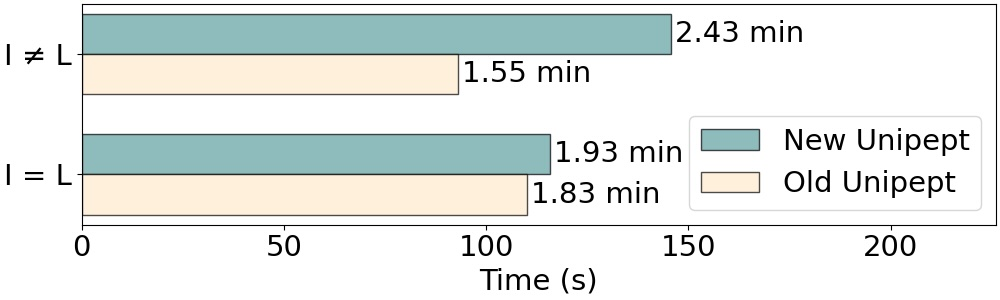
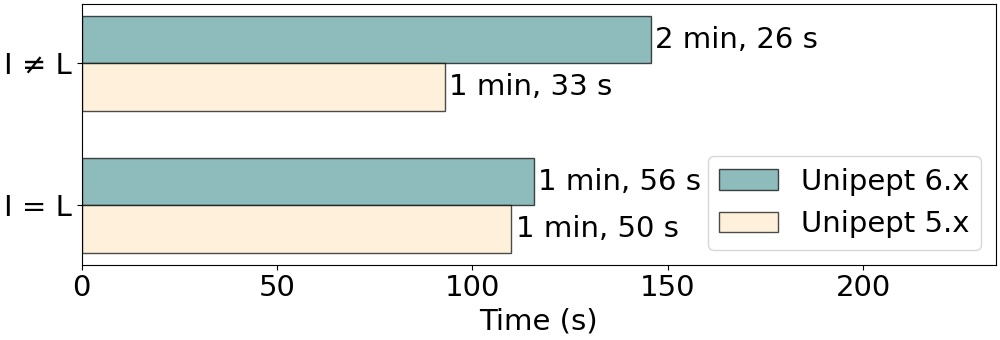
update figures to use min, sec and use unipept 5.x and 6.x in abstract

Changed region(s): [[0.0, 0.42, 1.0, 0.99], [0.0, 0.0, 1.0, 0.36], [0.713, 0.36, 0.961, 0.39]]

diff --git a/abstract/abstract.tex b/abstract/abstract.tex
@@ -90,17 +90,19 @@
         Similar to peptides with missed cleavages, these will not be present in the index, but no workaround exists in this case.
 
         This restriction has not been a significant problem since Unipept was originally created for the metaproteomics field, where trypsin is widely used.
-        However, other fields, such as the immunopeptidomics field, frequently work with non-tryptic peptides.
-        We aspire to broaden the use cases of Unipept, which requires a new search index with the following properties:
+        However, other fields, such as the immunopeptidomics field~\cite{immunopeptidomics}, frequently work with non-tryptic peptides.
+        Tools such as MS$^2$Rescore~\cite{ms2rescore} and MS$^2$PIP~\cite{ms2pip} have been adding support for immunopeptidomics research.
+        As we aspire to broaden the use cases of Unipept, adding support these upcoming research fields is important.
+        This requires a new index structure with the following properties:
 
         \begin{enumerate}
             \item For every peptide (tryptic or non-tryptic), all matches in UniProtKB should be found.
             \item The maximum memory usage when building the index for the complete UniProtKB database should be around 1 to 2 TB\@.
-            \item Search performance should be on par with the current Unipept tryptic peptide search.
-            \item The new index should facilitate all the current Unipept features.
+            \item Search performance should be on par with the Unipept 5.x tryptic peptide search.
+            \item The new index should facilitate all the Unipept 5.x features.
         \end{enumerate}
 
-        In short, we want an index that does not remove any of the current features, while eliminating the restriction that only tryptic peptides can efficiently be found by the current index.
+        In short, we want an index that does not remove any of the features from Unipept 5.x, while eliminating the restriction that only tryptic peptides can efficiently be found.
         This also means that our new index will need to provide a way to equalize the amino acids isoleucine and leucine, as this is a core feature.
 
 
@@ -165,28 +167,28 @@
             \label{fig:uniprot_memory_treemap}
         \end{Figure}
 
-        \subsection{Querying the Index} % TODO: redo performance timing on new unipept server, or mention this difference
+        \subsection{Querying the Index}
         To evaluate the search performance we use 6 files with each around 25\thinspace000 peptides.
         These are samples from the SIHUMIx experiment~\cite{SIHUMI_frequently_used, SIHUMI_first_introduction}, where trypsin is used as a protease.
         This means that as well as tryptic peptides, there are also peptides present with naturally occurring missed cleavages.
-        Figure~\ref{fig:new_vs_old_unipept} shows the execution time for both the new and old unipept index.
+        Figure~\ref{fig:new_vs_old_unipept} shows the execution time for both Unipept 6.x and 5.x.
         To make the comparison as fair as possible, the \textit{filter duplicate peptides} setting is turned off, and \textit{advanced missed cleavage handling} is turned on.
-        This ensures that both the old and new index search every peptide from the input file (including duplicates and peptides with missed cleavages).
-        The new index is 10 to 100 times faster, which clearly removes the performance penalty that was currently associated with handling missed cleavages.
+        This ensures that both indices search every peptide from the input file (including duplicates and peptides with missed cleavages).
+        Unipept 6.x is 10 to 100 times faster, which clearly removes the performance penalty that was currently associated with handling missed cleavages.
         Note that the old Unipept index will not find peptides created by a different protease, while this makes no difference for the new index.
         \begin{Figure}
             \centering
             \resizebox{\textwidth}{!}{
                 \includegraphics{new_vs_old_unipept}
             }
-            \captionof{figure}{Execution time for the new and old Unipept index while searching different SIHUMIx samples. Each sample consists of approximately 25\thinspace000 peptides. The old Unipept index searches with the \textit{filter duplicate peptides} setting turned off, and \textit{advanced missed cleavage handling} turned on. This way both indices search all peptides (included duplicates), and missed cleavages are handled by both. The used test files can be found back in our GitHub repository \url{https://github.com/BramDevlaminck/Thesis_benchmarkdata/tree/master/SIHUMI}}
+            \captionof{figure}{Execution time for Unipept 6.x and Unipept 5.x while searching different SIHUMIx samples. Each sample consists of approximately 25\thinspace000 peptides. Unipept 5.x searches with the \textit{filter duplicate peptides} setting turned off, and \textit{advanced missed cleavage handling} turned on. This way both indices search all peptides (included duplicates), and missed cleavages are handled by both. The used test files can be found back in our GitHub repository \url{https://github.com/BramDevlaminck/Thesis_benchmarkdata/tree/master/SIHUMI}}
             \label{fig:new_vs_old_unipept}
         \end{Figure}
 
         Another interesting case to consider is when searching strictly tryptic peptides.
-        This that case, missed cleavage handling can be disabled on the old index, which significantly improves the performance.
+        This that case, missed cleavage handling can be disabled in Unipept 5.x, which significantly improves the performance.
         Figure~\ref{fig:new_vs_old_unipept_tryptic} visualizes the search time for 100\thinspace000 tryptic peptides.
-        It is visible that the performance is comparable when I and L are equalized, while the old index is around a third faster than the new index when I and L are not equalized.
+        It is visible that the performance is comparable when I and L are equalized, while Unipept 5.x is around a third faster than Unipept 6.x when I and L are not equalized.
 
         Furthermore, it is clearly visible that the extra filtering step, when I $\neq$ L, has a performance impact in the new index.
         This effect was not visible in Figure~\ref{fig:new_vs_old_unipept}, where the reverse seems to be visible.
@@ -198,18 +200,18 @@
             \resizebox{\textwidth}{!}{
                 \includegraphics{new_vs_old_unipept_tryptic}
             }
-            \captionof{figure}{Search time for 100\thinspace000 tryptic peptides for the new and old Unipept index. This is the best case scenario for the old index where missed cleavages are \textbf{not} handled.}
+            \captionof{figure}{Search time for 100\thinspace000 tryptic peptides for Unipept 6.x and 5.x. This is the best case scenario for Unipept 5.x where missed cleavages are \textbf{not} handled.}
             \label{fig:new_vs_old_unipept_tryptic}
         \end{Figure}
 
 
         \section{Comparison}\label{sec:comparison}
-        Tools such as the Uniprot peptide search tool~\cite{uniprot_search_site, uniprot_search_paper}, the Expasy ScanProsite tool~\cite{scanprosite} and the current Unipept release all have the possibility to find matches in the UniProtKB database.
+        Tools such as the Uniprot peptide search tool~\cite{uniprot_search_site, uniprot_search_paper}, the Expasy ScanProsite tool~\cite{scanprosite} and the Unipept 5.x all have the possibility to find matches in the UniProtKB database.
         Next to the performance, we also compare the provided features.
         Because of the limited performance of some tools, we limited testing to the randomly chosen peptide \texttt{ISPAVLFVIVILAVLFFISGLLHLLVR}.
-        The new suffix array uses the above described settings and finds all matches for our test peptide in less than 5 ms.
+        Unipept 6.x uses the above described settings and finds all matches for our test peptide in less than 5 ms.
 
-        Feature wise, the UniProt Peptide Search tool is identical to the new suffix array index developed for Unipept.
+        Feature wise, the UniProt Peptide Search tool is identical to Unipept 6.x.
         They both find all matches in UniProtKB, and have the option to equalize I and L\@.
         The only difference is in the performance.
         Searching our test peptide in the SA only takes a few milliseconds, while the UniProt tool takes a few seconds up to multiple minutes.
@@ -222,7 +224,7 @@
         Lastly, searching our test peptide takes around 5 minutes.
         As expected, since not the whole UniProtKB database is index, only a subset of the matches is found.
 
-        The last major tool we compare with, is the current Unipept index.
+        The last major tool we compare with, is Unipept 5.x.
         The new Unipept index is feature wise identical to the current index, with the addition of removing the restriction where Unipept can only quickly find tryptic peptides.
         This means that every non-tryptic peptide will result in 0 matches in the current index, while the new index will find all matches that are in UniProtKB\@.
         Searching our test peptide took less than 5 ms, and found the same matches because our test peptide is tryptic.
@@ -233,7 +235,7 @@
             \centering
             \resizebox{\textwidth}{!}{
                 \begin{tabular}{ l l l l l }
-                    & SSA      & UPS          & ESP        & UP             \\
+                    & UP6      & UPS          & ESP        & UP5            \\
                     \hline\hline
                     Used proteins    & all      & all          & ref. prot. & all            \\
                     Approx. match    & [IL]     & [IL]         & flexible   & [IL]           \\
@@ -242,7 +244,7 @@
                     \hline
                 \end{tabular}
             }
-            \captionof{table}{Comparison of the new suffix array (SA), UniProt Peptide Search (UPS) tool, Expasy ScanProSite (ESP) tool and the current Unipept (UP) index. \texttt{[IL]} in the approximate matching row means that only I and L can be equalized. while \texttt{$\sim$ tryptic} in the searchable peptide row means that only tryptic or tryptic peptides with missed cleavages can be found.}
+            \captionof{table}{Comparison of Unipept 6.x (UP6), UniProt Peptide Search (UPS) tool, Expasy ScanProSite (ESP) tool and Unipept 5.x (UP5) index. \texttt{[IL]} in the approximate matching row means that only I and L can be equalized. while \texttt{$\sim$ tryptic} in the searchable peptide row means that only tryptic or tryptic peptides with missed cleavages can be found.}
             \label{tab:tool_comparison}
         \end{Table}
 
@@ -250,21 +252,20 @@
         \section{Conclusion}\label{sec:discussion}
         With a new index structure at the heart of Unipept, we have broadened Unipept's possible use cases.
         The new index structure makes searching peptides with missed cleavages around 10 to 100 times faster.
-        While adding the possibility to search arbitrary peptides, regardless of the used protease.
-        From our testing, Unipept greatly outperforms its closest competitors at finding all occurrences for an arbitrary peptide longer than 2 amino acids in UniProtKB\@.
+        While adding the possibility to search arbitrary peptides, regardless of the used protease, without any performance difference.
+        From our testing, Unipept 6.x greatly outperforms its closest competitors at finding all occurrences for an arbitrary peptide longer than 2 amino acids in UniProtKB\@.
 
         Another advantage of the new index is that there are no extra steps required to retrieve the NCBI taxon ID for each matched protein.
-        The current index requires extra steps to retrieve this, with a significant impact on the performance.
+        Extra steps are required in Unipept 5.x to retrieve all the separate taxon IDs, with a significant impact on the performance.
         This restriction creates a bottleneck in the new Peptonizer2000 tool~\cite{pep_gm}.
 
-        The main disadvantage of this new index is that searching tryptic peptides is slightly slower than before.
+        The main disadvantage of Unipept 6.x compared to Unipept 5.x is that searching tryptic peptides is slightly slower than before.
         This slowdown is introduced by the analyses performed during search itself, while this could all be precalculated in the old index.
         However, this slowdown is limited and acceptable.
-        Especially when keeping in mind that real life samples always have some missed cleavages, which would not have been found before, without a significant performance hit.
-
+        Especially when keeping in mind that real life samples always have some missed cleavages, which would not have been found before, without a performance hit.
 
         \section{Future Work}
-        The new index meets the pre-established targets, but still leaves room for improvement in several areas.
+        Our new index meets the pre-established targets, but still leaves room for improvement in several areas.
 
         A significant part of the current computation time is invested in performing the taxonomic and functional analyses.
         Modifying the new index to support the pre-calculation of these analyses, while still maintaining a peak memory usage which is manageable would drastically improve the performance.
@@ -274,7 +275,7 @@
         The index size could be reduced even more by making the text and suffix array more compact.
         Both of these components don't utilize all the bits from the allocated bytes.
         The suffix array only needs 37 of the 64 bits used by every entry, while the text only needs 5 bits out of each byte per character.
-        This would reduce the total index size from 364 GB to around 225 GB\@.
+        This would reduce the total index size from 346 GB to around 215 GB\@.
         However, this would introduce extra steps to decode every access to any of these data structures.
         This could introduce a non-negligible performance penalty.
 
@@ -283,7 +284,7 @@
 
         Lastly, Unipept does not perform any form of inexact matching, except for I and L\@.
         Introducing inexact matching into Unipept could allow us to deal with small mutations or read-errors introduced by a mass spectrometer.
-        Possible interesting routes to explore are regex matching using suffix arrays, or inexact matching using bidirectional FM-indices.
+        Possible interesting routes to explore are regex matching using suffix arrays~\cite{regex_sa}, or inexact matching using bidirectional FM-indices.
         \printbibliography
     \end{multicols}
 

diff --git a/thesis/uniprot.tex b/thesis/uniprot.tex
@@ -204,7 +204,7 @@ Volgende sectie bevat de gestelde vragen, met de gegeven antwoorden.
     \item[What percentage of requests treat isoleucine and leucine as equivalent? ]
     Answer: Around 6\% of the cases treat isoleucine=leucine.
     \item[What is the average time needed to handle 1 request? During our own testing we noticed that the performance can vary a lot from request to request. Is there an explanation for this?]
-    Answer: if you are using the tool on our website, response times can vary due to several reasons:
+    Answer: If you are using the tool on our website, response times can vary due to several reasons:
     \begin{enumerate}
         \item Load of the server running PeptideSearch (currently running at PIR in Delaware, US)
         \item Load/availability of the dispatching server which is located at the EBI, UK)
@@ -233,8 +233,8 @@ Hierbij zijn er slechts 30 resp. 32 matches gevonden, wegens de deelverzameling 
 
 \subsection{Huidige Unipept index}
 De bestaande Unipept index laat toe om, \textbf{op voorwaarde dat je peptide tryptisch is}, alle matches te vinden in UniProtKB met de optie om I en L gelijk te stellen.
-De peptide die we hier gebruiken is tryptisch, dus zou deze index hiervoor dezelfde matches moeten vinden.
-Dit is inderdaad het geval, en gebeurt bovendien gebruikmakende van een API call in \textbf{$\pm$ 4 milliseconden}, wat duidelijk extreem veel sneller is dan de andere bestaande opties.
+De peptide die we hier gebruiken is tryptisch, dus vindt deze index alle zoals verwacht alle matches.
+Bovendien gebeurt dit gebruikmakende van een API call in \textbf{$\pm$ 4 milliseconden}, wat duidelijk extreem veel sneller is dan de andere bestaande opties.
 Opnieuw is de zoektijd hier al zo klein dat de invloed van het gelijkstellen van I en L niet te meten valt.
 Het is echter een grote beperking dat dit enkel werkt voor tryptische peptiden, of peptiden met zogenaamde \textit{missed cleavages}.
 Volgend voorbeeld illustreert dit.
@@ -316,7 +316,7 @@ Deze webserver laadt de indexstructuur in bij het opstarten, en blijft daarna wa
 Op deze manier is dit probleem elegant opgelost, en kunnen we bovendien aan de hand van \textbf{JSON bestanden} erg makkelijk de input verwerken, en de resultaten terugsturen.
 Codefragment~\ref{fig:webserver_json_input} en~\ref{fig:webserver_json_output} geven een voorbeeld input en output.
 
-\begin{listing}[h!]
+\begin{listing}[H]
     \begin{minted}[frame=lines,framesep=2mm,linenos]{JSON}
 {
   "peptides": [

diff --git a/thesis/conclusie.tex b/thesis/conclusie.tex
@@ -37,12 +37,9 @@ Voor de huidige UniProtKB database hebben we dus slechts 37 bits per waarde in d
 Aangezien de huidige sparse suffix array (met sparseness factor $k = 3$) ongeveer 235 GB groot is, zou deze na deze aanpassing slechts 136 GB groot zijn.
 Bij de tekst kunnen we dezelfde aanpassing maken.
 Daar hebben we 26 + 2 = 28 verschillende tekens, wat aan de hand van 5 bits voorgesteld kan worden.
-Aangezien de huidige tekst ongeveer 87 GB groot is, zou dit resulteren in een tekst die slechts $87 \cdot \frac{5}{8} \approx 54$ GB groot is.
-Een derde luik van de indexstructuur zijn de functionele annotaties die 11 GB groot zijn na compressie.
-Tot slot moeten we ook nog de mapping van de suffixen naar de proteïnen bijhouden.
-Dit is één 32 bit integer per proteïne, aangezien er ongeveer $250\thinspace000\thinspace000 < 2^{32}$ proteïnen zitten in UniProtKB\@.
-Dit resulteert in een mapping van 1 GB\@.
-Hierdoor zou de totale resulterende index van $235 + 87 + 11 + 1 = 334$ GB naar $136 + 54 + 11 + 1 = 202$ GB gaan, wat iets meer dan \textbf{33\% winst} oplevert.
+Aangezien de huidige tekst ongeveer 88 GB groot is, zou dit resulteren in een tekst die slechts $88 \cdot \frac{5}{8} \approx 55$ GB groot is.
+Hierbij komt nog taxonomische en functionele informatie in combinatie met de UniProt accession numbers en de suffix naar proteïne mapping.
+Hierdoor zou de totale resulterende index van $235 + 88 + 23 = 346$ GB naar $136 + 55 + 23 = 214$ GB gaan, wat iets meer dan \textbf{33\% winst} oplevert.
 Merk op dat dit de nodige hoeveelheid geheugen tijdens het opbouwen niet verkleint, aangezien we in die fase wel gebruik moeten maken van 64 bit integers en 8 bit karakters.
 \\ \\
 Ook tijdens het opbouwen zijn er nog interessante pistes om te verkennen.

diff --git a/thesis/dankwoord.tex b/thesis/dankwoord.tex
@@ -1,9 +1,9 @@
-\chapter{Dankwoord}\label{ch:dankwoord}
+\chapter*{Dankwoord}\label{ch:dankwoord}
 Deze masterproef vormt de conclusie van mijn voorbije 5 jaren aan UGent.
 Jaren met extreem veel werk, maar ook met fantastische ervaringen.
 Deze masterproef is de ultieme combinatie hiervan.
 Zonder het begeleidend team van Unipept, waarmee ik wekelijks onze vaste \textit{thesismeeting} had, zou ik nooit zo'n volmaakt resultaat kunnen afleveren.
-Daarom wil ik met nadruk mijn promotor prof.\ dr.\ Peter Dawyndt en begeleiders dr.\ Pieter Verschaffelt en Tibo Vande Moortele bedanken.
+Daarom wil ik met nadruk mijn promotor prof.\ dr.\ Peter Dawyndt, copromotor prof.\ dr.\ ir.\ Bart Mesuere en begeleiders dr.\ Pieter Verschaffelt en Tibo Vande Moortele bedanken.
 Naast alle serieuze en leervolle gesprekken over informatica en metaproteomica, was er altijd plaats voor enkele (of laat ons eerlijk zijn, veel) ongerelateerde side-stories.
 %Dankzij hun ondersteuning is deze masterproef meer dan enkel een \textit{proof-of-concept}.
 \\ \\

diff --git a/thesis/suffixarray.tex b/thesis/suffixarray.tex
@@ -406,12 +406,12 @@ Rayon maakt gebruik van een ingewikkelder systeem aan de hand van \textit{work s
 
 \begin{figure}[H]
     \centering
-    \subfloat[Absolute uitvoeringstijd voor 1--12 threads.]{\includegraphics[width=0.7\linewidth]{threading_default_vs_rayon}}
+    \subfloat[Absolute uitvoeringstijd voor 1--12 threads.]{\includegraphics[width=0.85\linewidth]{threading_default_vs_rayon}}
     \label{fig:threading_default_vs_rayon_1}
 \end{figure}
 \begin{figure}[H]\ContinuedFloat
     \centering
-    \subfloat[Relatieve versnelling ten opzichte van uitvoering op 1 thread.]{\includegraphics[width=0.7\linewidth]{threading_default_vs_rayon_relative}}
+    \subfloat[Relatieve versnelling ten opzichte van uitvoering op 1 thread.]{\includegraphics[width=0.85\linewidth]{threading_default_vs_rayon_relative}}
     \caption{Tijdsmeting om het strikt tryptische Swiss-Prot peptidebestand te zoeken in een index met sparseness factor 3 voor 5\% van UniProtKB.}\label{fig:threading_default_vs_rayon}
 \end{figure}
 
